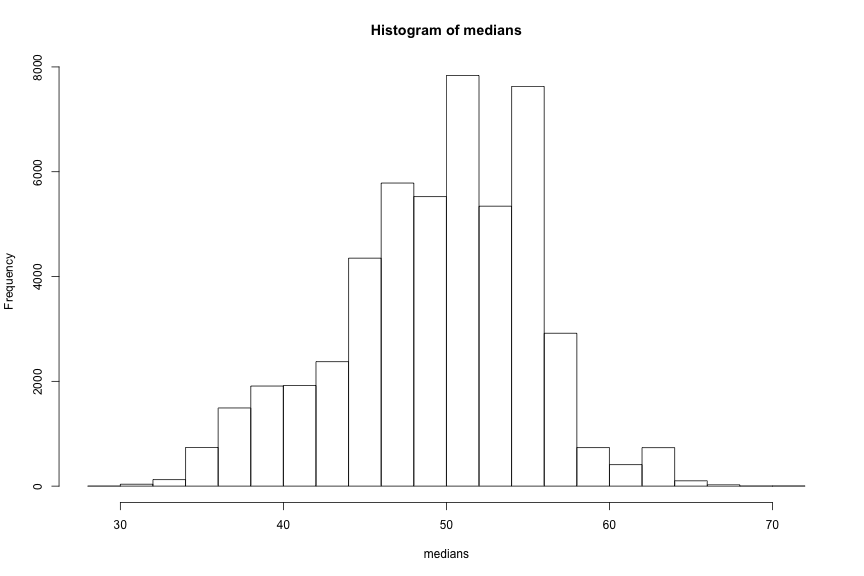
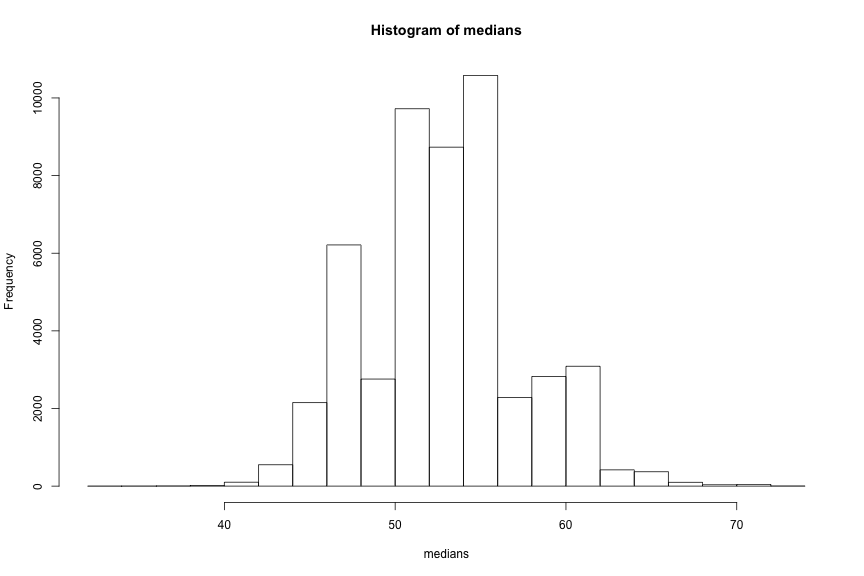
Add some new slides.

diff --git a/rrug_pres.md b/rrug_pres.md
@@ -11,7 +11,8 @@ About Me
 - In Reno for ~1 year
 - Math, Econ, and social science background
 - I like R quite a bit.
-- Focus on software architecture as a Data Scientist
+- Focused on architecture in R
+- Some mathematical modelling
 
 About Clear Capital
 ==================================================
@@ -30,6 +31,31 @@ Outline
 - Clusters
 - Lessons
 
+Parallel
+==================================================
+* Base package in R
+* Simplest way to get parallelizing
+* Lots of functions come from the SNOW package, which is now deprecated
+* `parLapply, parSapply, clusterApplyLB, clusterApply`...
+
+Good Use Cases
+==================================================
+* Map-reduce algorithms
+* Monte Carlo simulations
+* Bootstrapping and replication
+* Complex functions
+
+Bad Use Cases
+==================================================
+* Iterative loops (output depends on previous step)
+* Continuous edits required on an object
+* Very simple, high speed, and/or low volume requests
+* File Writes
+
+Managing Expectations
+==================================================
+<font size="24">**Parallelism adds overhead.**</font>
+
 Simplest Example
 ========================================================
 
@@ -40,7 +66,7 @@ median(exampleData)
 ```
 
 ```
-[1] 50.11368
+[1] 52.97137
 ```
 
 Is the median accurate?
@@ -58,7 +84,15 @@ system.time(
 
 ```
    user  system elapsed 
-  1.879   0.033   1.940 
+  2.084   0.037   2.125 
+```
+
+```r
+mean(medians)
+```
+
+```
+[1] 52.95431
 ```
 
 Resulting Distribution
@@ -84,7 +118,15 @@ system.time(
 
 ```
    user  system elapsed 
-  2.122   0.152   0.867 
+  0.962   0.087   0.540 
+```
+
+```r
+mean(unlist(medians))
+```
+
+```
+[1] 52.90077
 ```
 
 Same Distribution!
@@ -94,8 +136,9 @@ Same Distribution!
 
 What Happened?
 ==================================================
-- `mclapply` creates multiple processes for R and then returns the results
-- Access to all the objects the parent process has access to, including global variables.
+- `mclapply` creates multiple processes of R for operations and then returns the results
+- Each child has access to all the objects in the parent environment, including global variables.
+- *Implicit Parallelism*
 
 Fork Clusters
 ==================================================
@@ -112,7 +155,7 @@ system.time(
 
 ```
    user  system elapsed 
-  0.019   0.004   0.854 
+  0.022   0.004   0.514 
 ```
 
 ```r
@@ -137,6 +180,23 @@ The (P)Sock Cluster
 ![image](socks.jpg)
 
 
+Clusters Compared
+==================================================
+
+Fork Cluster
+- Can only be on one machine
+- No copies of data from core to core
+- Implicit Object Sharing
+- Explicit Parallelism
+
+***
+
+PSOCK Cluster
+- Multiple machines
+- Must copy data between cores
+- Explicit Object Sharing
+- Explicit Parallelism
+
 Split Strategy 1 - Create Cluster Across All your Cores
 ==================================================
 * Does not have to be one machine (Advantage over Fork)
@@ -144,16 +204,16 @@ Split Strategy 1 - Create Cluster Across All your Cores
 * Maximum of 128 "nodes", i.e. 128 cores in a single cluster with PSOCK!
 
 
-Split Strategy 2 - The Parent-Child Split (Map-Reduce)
+Split Strategy 2 - The Parent-Child-Grandchild Split (Map-Reduce)
 ==================================================
-* Divide the work into reasonable chunks and assign each chunk a key
-* Create a cluster with 1 node on each server. These are your parent processes.
-* On each parent process spawned by this cluster, create **n** child processes,
+1. Divide the work into reasonable chunks and assign each chunk a key
+2. Create a cluster with 1 node on each server. These are your first child processes.
+3. On each parent process spawned by this cluster, create **n** (grand)child processes,
 where **n** is the number of cores on the box (`detectCores()`).
-* Copy the original data between each box with a key pairing
-* Write function which uses the child cluster for processing
-* Apply function over the keys via the parent cluster - each box runs childs processes controlled by a single master process
-
+4. Send necessary data to boxes and all clusters, both those with the child processes and grandchild processes
+5. Apply function which uses the granchildren processes
+6. Return results from grandchild processes to child processes
+7. Return results from child processes to master process
 
 Why not just make one cluster?
 ==================================================
@@ -165,7 +225,7 @@ Why not just make one cluster?
 
 Extended Clear Capital Example
 ==================================================
-
+Main uses are data updates, model runs, and file parsing.
 
 Caveats
 ==================================================
@@ -177,6 +237,9 @@ Caveats
 
 When is serial better?
 ==================================================
+* Few iterations
+* Low Complexity
+* Vectorized vs. unvectorized code
 
 
 Conclusion
@@ -187,5 +250,5 @@ Conclusion
 * Well written serial code is often more performant than poorly written
 parallel code
 
-**Slow serial code is slow parallel code.**
+<font size = "24">**Slow serial code is slow parallel code.**</font>
 
